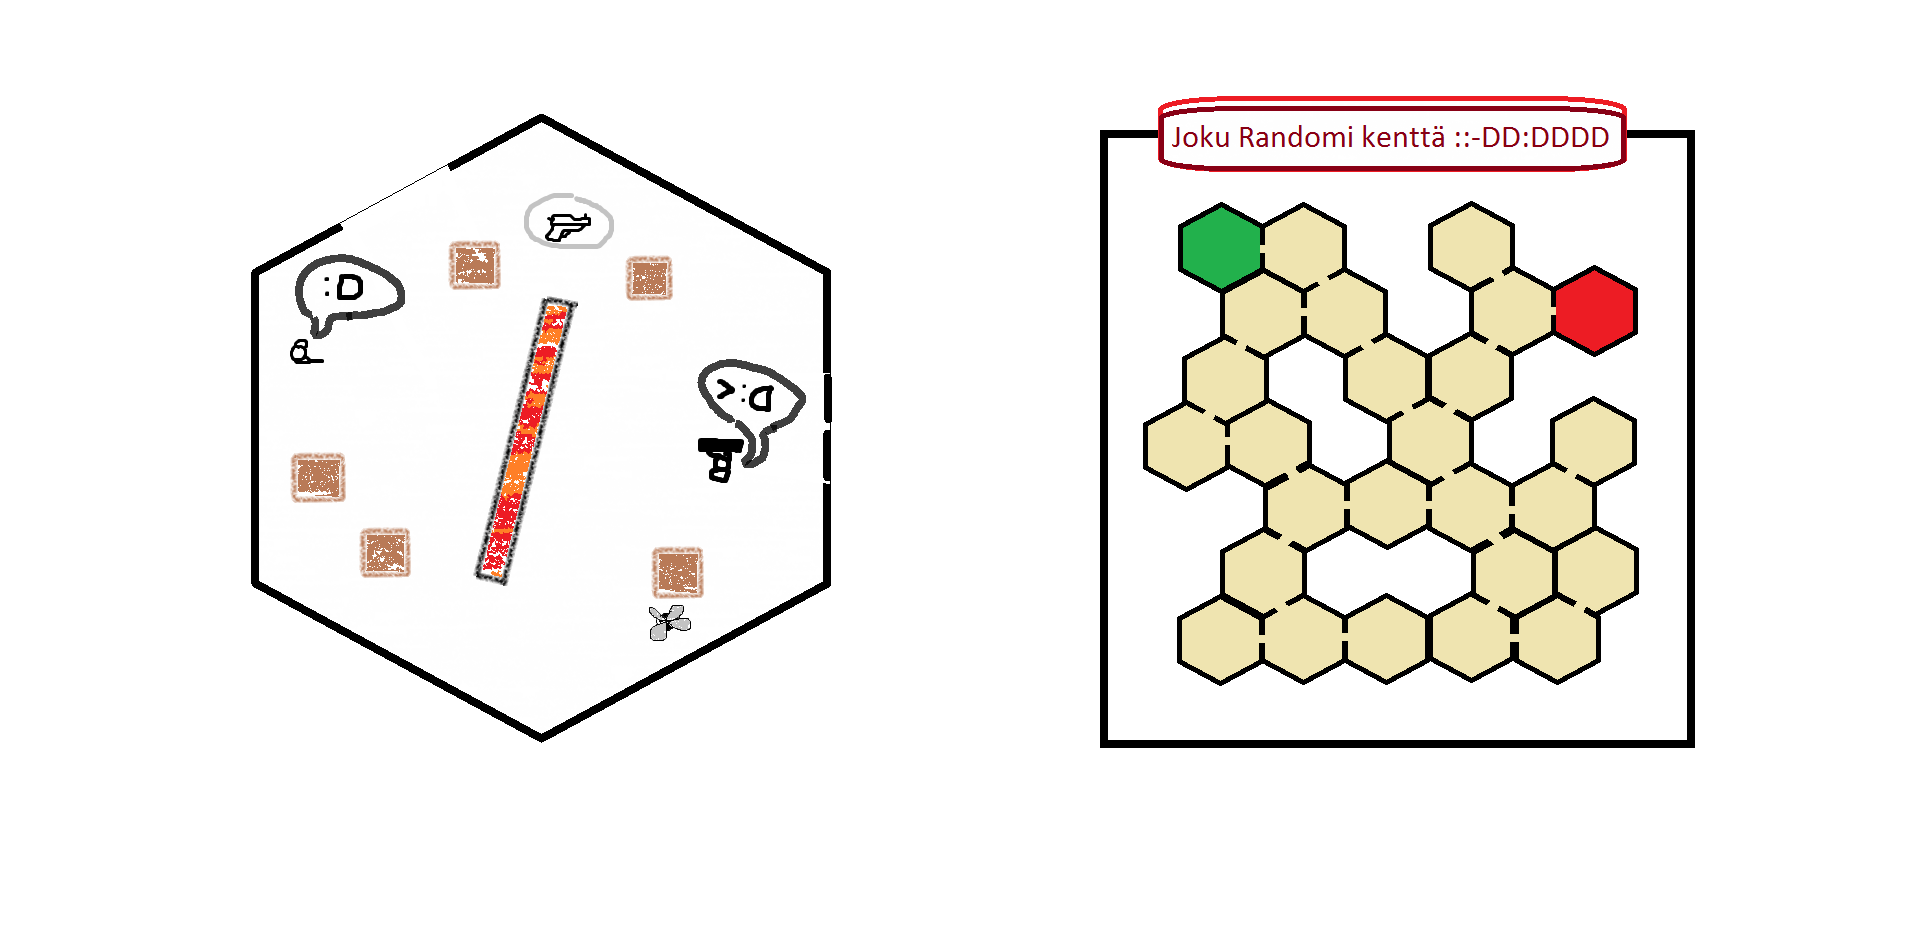
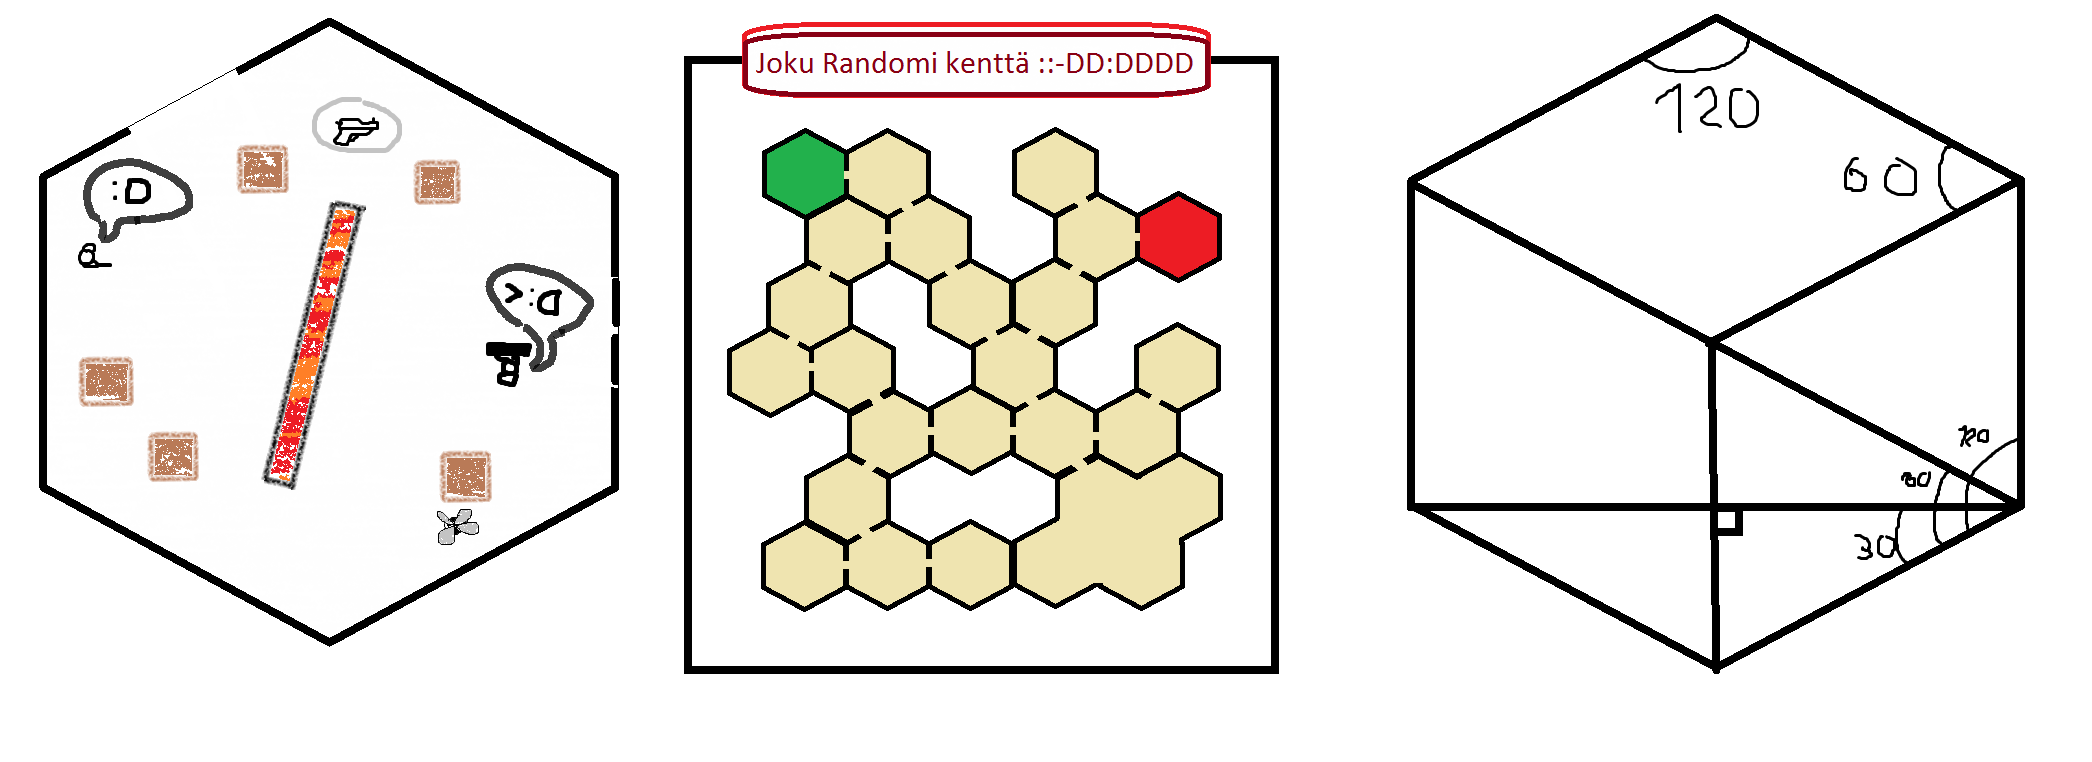
Paljon shaissea. Luovutan tän näin tekemällä ja teen valmiin "pohjan" mihi randomilla teen huoneet jne.

diff --git a/Pyssypeli/Assets/scripts/Mappigene.cs b/Pyssypeli/Assets/scripts/Mappigene.cs
@@ -1,21 +1,55 @@
 using UnityEngine;
 using System.Collections;
-
+using System.Collections.Generic;
 public class Mappigene : MonoBehaviour {
-	public int x = 2;
+	public int x = 3;
 	public int y = 3;
-	Rigidbody2D testi = new Rigidbody2D ();
-	
-	SpriteRenderer testi1 = new SpriteRenderer ();
 
-	public Sprite testii;
+	List<List<GameObject>> testi = new List<List<GameObject>>();
+	public GameObject testii2;
+	//float pituus = ;
 	// Use this for initialization
+	int a;
+	float nextx;
+	float pituus;
+	float nexty;
 	void Start () {
-		testi1.sprite = testii;
-		testi1.enabled = true;
+		pituus = testii2.transform.gameObject.GetComponent<SpriteRenderer> ().bounds.extents.x;
+		Debug.Log ("Vittu se on" + pituus);
+		nexty = 0;
+		for (int i = 0; i<y; i++) {
+			testi.Add (new List<GameObject>());
+			nextx = 0;
+			for(a = 0;a<x;a++){
+				testi[i].Add ((GameObject)Instantiate(testii2));
+				if(i+1%3==1&&a%2 == 0){nextx = pituus;testi[i][a].transform.position = new Vector2(nextx,nexty); testi[i][a].transform.Rotate(0,0,30);nextx +=pituus*1.5f;}
+				if(i+1%3==1&&a%2 == 1){testi[i][a].transform.position = new Vector2(nextx,nexty); testi[i][a].transform.Rotate(0,0,180-30);nextx += pituus*2;}
 
-		testi1.transform.localPosition = new Vector2 (0, 0);
+				if(i+1%3==2){testi[i][a].transform.position = new Vector2(nextx,nexty); testi[i][a].transform.Rotate(0,0,90);nextx +=pituus*4;}
 
+
+				if(i+1%3==0&&a%2 == 0){testi[i][a].transform.position = new Vector2(nextx,nexty); testi[i][a].transform.Rotate(0,0,30);nextx +=testi[i][a].transform.gameObject.GetComponent<SpriteRenderer> ().bounds.size.x-0.5f;}
+				if(i+1%3==0&&a%2 == 1){testi[i][a].transform.position = new Vector2(nextx,nexty); testi[i][a].transform.Rotate(0,0,180-30);nextx += testi[i][a].transform.gameObject.GetComponent<SpriteRenderer> ().bounds.size.x;}
+
+				
+			}
+
+
+			nexty -= pituus*1.5f;
+		}
+
+	/*	testi.Add ((GameObject)Instantiate(testii2));
+		//seina other = testi [0].GetComponent ("seina");
+		//other.tila (-2, 0);
+		testi [0].transform.position = new Vector2 (-2, 0);
+		testi [1].transform.position = new Vector2 (4, 3);
+		testi[0].transform.Rotate (new Vector3(0,0,30));
+
+		seina seeeina = (seina)testi [0].GetComponent ("Seina");
+
+		//seeeina.transform.position = new Vector2 (-2, 3);
+
+		//Instantiate (seina);*/
 	}
 	
 	// Update is called once per frame

diff --git a/Pyssypeli/Assets/scripts/seina.cs b/Pyssypeli/Assets/scripts/seina.cs
@@ -5,24 +5,38 @@ public class seina : MonoBehaviour {
 	public bool kulma = false; // onko kulmassa vai suorassa;
 	public bool oikea = false; // kulma oikeaan vai vasempaan;
 	public bool ala = false;
+	public float x;
+	public float y;
+	Vector3 testiii;
 	// Use this for initialization
 	void Start () {
-		if (!ala && kulma && !oikea)
-			transform.Rotate (0, 0, 60);
-		if (oikea && kulma && !ala)
-			transform.Rotate (0, 0, 60 + 60 + 60 + 60 + 60);
-		if (ala && oikea && kulma)
-			transform.Rotate (0, 0, 60 + 60);
-		if (ala && !oikea && kulma)
-			transform.Rotate (0, 0, 60 + 60 + 60 + 60);
+	/*	if (ala && kulma && !oikea)
+			transform.Rotate (0, 0, -30);
+		if (ala&&oikea && kulma )
+			transform.Rotate (0, 0, 30+180);
+		if (!ala && oikea && kulma)
+			transform.Rotate (0, 0, 180-30);
+		if (!ala && !oikea && kulma)
+			transform.Rotate (0, 0, 30);
 		if (!kulma) {
-			transform.Rotate (0, 0, 0);
-		}
+			transform.Rotate (0, 0, 90);
+		}*/
+		//tila (2, 4);
+
+		//transform.localScale = new Vector2 (2, 1);
+	
+		float testiii = transform.gameObject.GetComponent<SpriteRenderer> ().bounds.extents.x;
+		Debug.Log (testiii);
+	}
+	public void tila(float x,float y){
+		this.transform.position = new Vector3 (x, y,0);
+
 
 	}
 	
 	// Update is called once per frame
 	void Update () {
-	
+		x = transform.position.x;
+		y = transform.position.y;
 	}
 }
